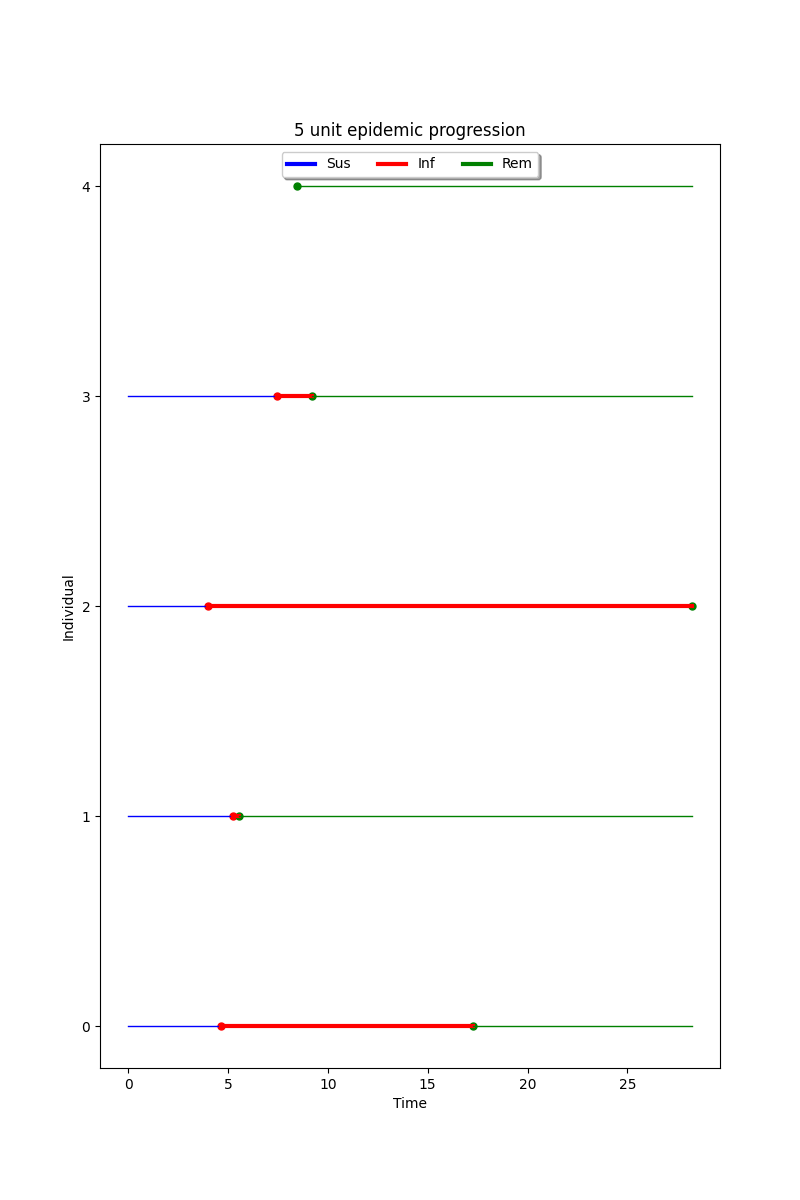
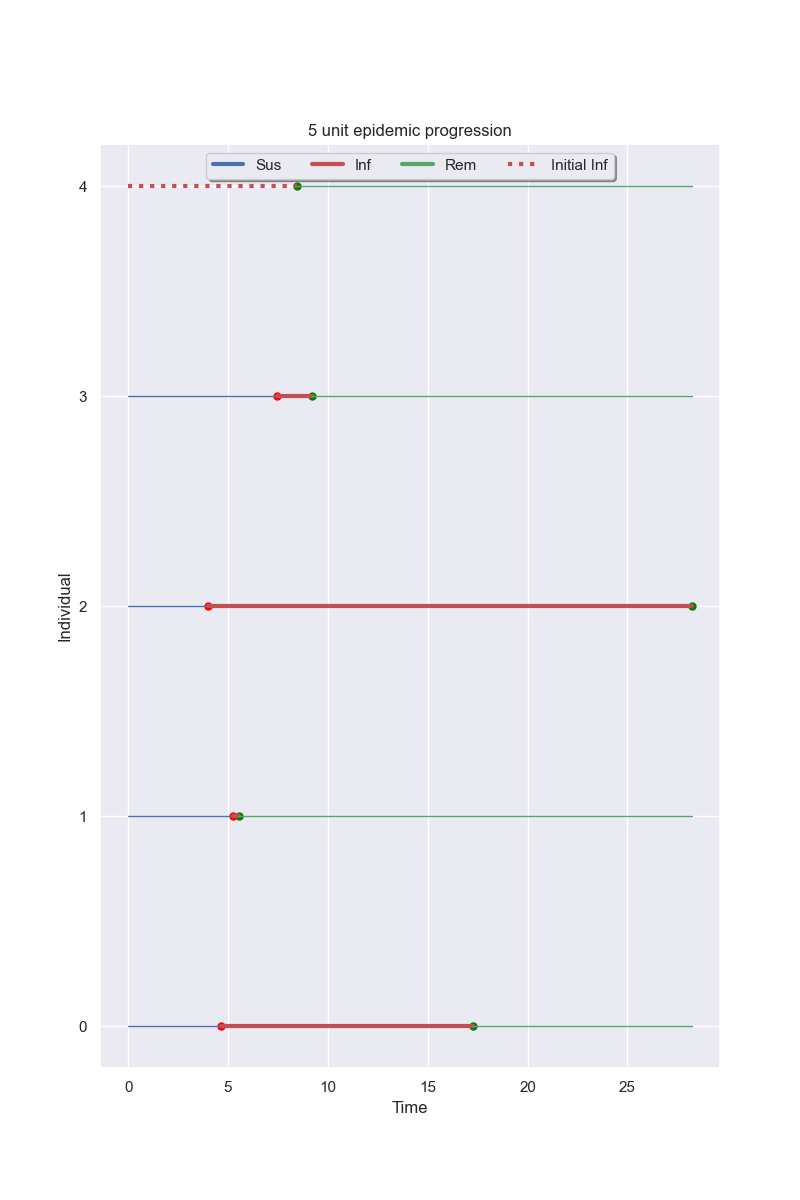
finalize plot for small epidemic simulation

diff --git a/epi_loglik/continuous_markov_simulation.py b/epi_loglik/continuous_markov_simulation.py
@@ -4,6 +4,7 @@ import numpy as np
 import tensorflow as tf
 import tensorflow_probability as tfp
 import matplotlib.pyplot as plt
+import seaborn as sns
 
 from matplotlib.lines import Line2D
 
@@ -60,11 +61,7 @@ small_scale_epidemic = continuous_markov_simulation(
     seed=[1, 0],
 )
 
-# export the simulated data
-for key, value in small_scale_epidemic._asdict():
-    print(key, np.array(value))
-
-# plotting the epidemic - want this in another file
+# plotting the epidemic - want this in another file?
 
 
 def event_list_to_table(
@@ -117,6 +114,9 @@ line_plot_data = np.hstack(
 )
 print(line_plot_data)
 # create and export the figure
+sns.set_theme()
+sns.set_palette("muted")
+
 fig = plt.figure(figsize=(8, 12))
 ax = fig.add_subplot()
 
@@ -136,19 +136,24 @@ for ii in range(population_size):
     x = [line_plot_data[ii, 1], line_plot_data[ii, 2]]
     y = [ii, ii]
     ax.plot(x, y, "r-", alpha=1, linewidth=3, label="Inf")
-    # ax.text(x, y, f" {ii}", color='red')
 
 # plot removed period
 for ii in range(population_size):
     x = [line_plot_data[ii, 2], np.max(line_plot_data[:, 2])]
     y = [ii, ii]
     ax.plot(x, y, "g-", alpha=1, linewidth=1, label="Rem")
-    # ax.text(x, y, f" {ii}", color='red')
+
+# plot initial infective period
+x_initial_inf = [0, line_plot_data[4, 2]]
+y_initial_inf = [4, 4]
+
+ax.plot(x_initial_inf, y_initial_inf, "r:", alpha=1, linewidth=3, label="Initial Inf")
 
 legend_elements = [
     Line2D([0], [0], color="b", lw=3, label="Sus"),
     Line2D([0], [0], color="r", lw=3, label="Inf"),
     Line2D([0], [0], color="g", lw=3, label="Rem"),
+    Line2D([0], [0], color="r", lw=3, linestyle=":", label="Initial Inf"),
 ]
 
 plt.xlabel("Time")
@@ -159,7 +164,7 @@ plt.legend(
     handles=legend_elements,
     loc="upper center",
     bbox_to_anchor=(0.5, 0.999),
-    ncol=3,
+    ncol=4,
     fancybox=True,
     shadow=True,
 )
